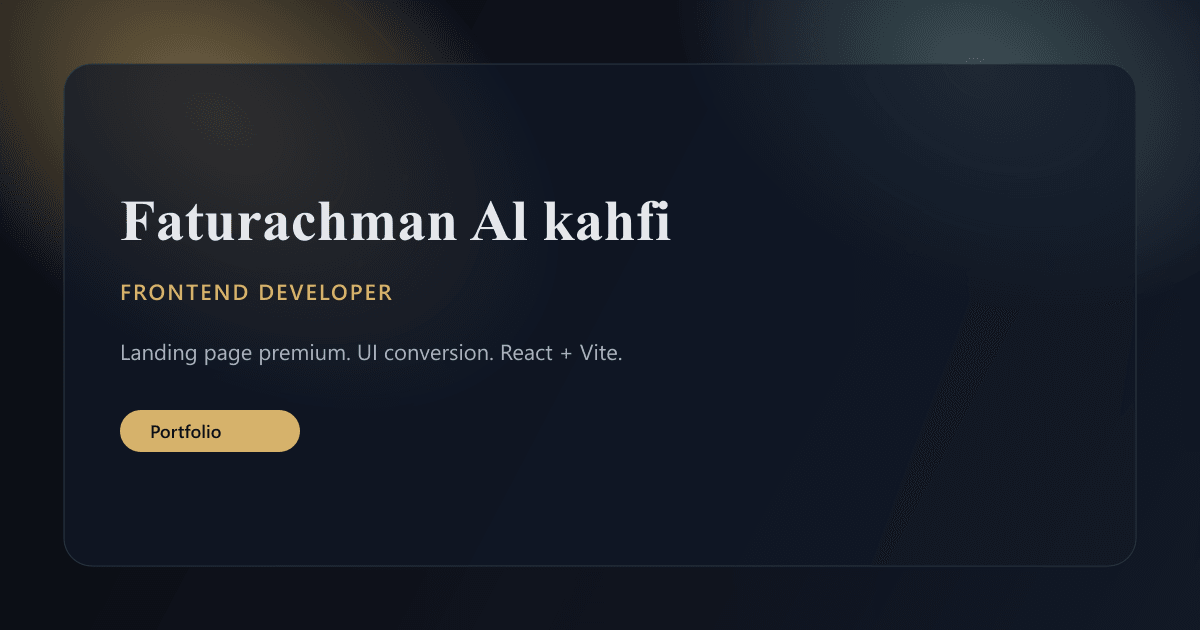
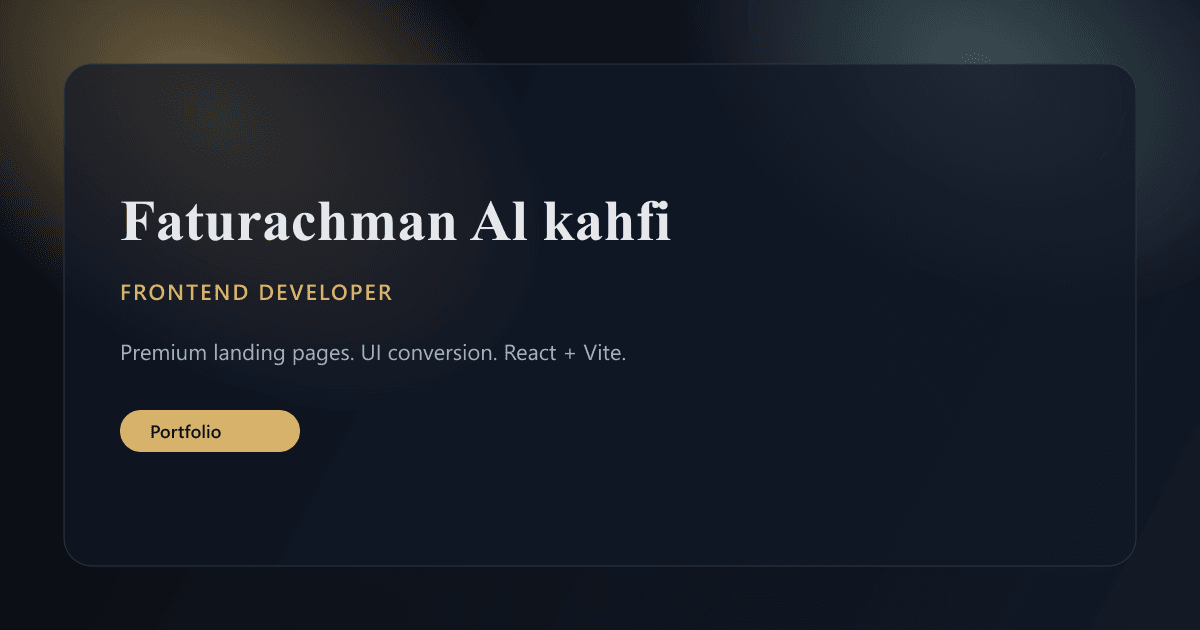
Translate site to full English

Changed region(s): [[0.0925, 0.5429, 0.5242, 0.573], [0.0, 0.2714, 0.0617, 0.3619]]

diff --git a/src/components/Projects.jsx b/src/components/Projects.jsx
@@ -6,20 +6,20 @@ const projects = [
     cover: '/projects/central-emas.png',
     title: 'Central Jual Emas (Concept Project)',
     desc:
-      'Landing page konsep untuk layanan jual emas dengan fokus edukasi dan konversi. ' +
-      'A conversion-focused landing page with pricing insights and clear CTAs.',
+      'Concept landing page for a gold selling service focused on education and conversion. ' +
+      'Conversion-focused with pricing insights and clear CTAs.',
     stack: 'HTML, CSS, JavaScript, React, Vite, REST API',
     highlights: [
-      'Kalkulator estimasi harga emas',
-      'Harga emas otomatis via API (XAUSD/world data)',
-      'CTA WhatsApp, testimoni, FAQ, lokasi'
+      'Gold price estimation calculator',
+      'Auto gold price via API (XAUSD/world data)',
+      'WhatsApp CTA, testimonials, FAQ, locations'
     ],
     caseStudy: [
-      { label: 'Problem', text: 'Pengunjung butuh estimasi cepat dan rasa aman saat menjual emas.' },
-      { label: 'Solution', text: 'Buat kalkulator harga otomatis + CTA WhatsApp yang jelas.' },
-      { label: 'Result', text: 'Alur lebih ringkas dan fokus ke konversi.' }
+      { label: 'Problem', text: 'Visitors need quick estimates and trust when selling gold.' },
+      { label: 'Solution', text: 'Auto pricing calculator plus clear WhatsApp CTA.' },
+      { label: 'Result', text: 'A shorter flow focused on conversion.' }
     ],
-    note: 'Data pelanggan/cabang/testimoni memakai mock data untuk kebutuhan desain.',
+    note: 'Customer/branch/testimonial data uses mock content for design purposes.',
     links: [
       { label: 'Demo', href: 'https://central-jual-emas.netlify.app/' },
       { label: 'Admin', href: 'https://central-jual-emas.netlify.app/admin.html' },
@@ -31,21 +31,21 @@ const projects = [
     cover: '/projects/queen-cell.png',
     title: 'For My Queen Cell (Client Project)',
     desc:
-      'Website bucin bertema romantis untuk "HTS", berisi pesan personal, mood switch, dan alur cerita hangat. ' +
+      'Romantic themed website for "HTS" with personal messages, mood switch, and warm storytelling. ' +
       'A soft, mobile-first experience with playful interactions.',
     stack: 'HTML, CSS, JavaScript, React (UMD)',
     highlights: [
-      'Hero dengan pesan personal + toggle pesan',
-      'Mood switch untuk ganti suasana',
-      'Timeline perjalanan kecil + audio player',
+      'Hero with personal message + message toggle',
+      'Mood switch to change the vibe',
+      'Story timeline + audio player',
       'Floating hearts animation'
     ],
     caseStudy: [
-      { label: 'Problem', text: 'Klien ingin hadiah digital yang personal dan terasa hangat.' },
-      { label: 'Solution', text: 'Storytelling lembut dengan mood switch + audio.' },
-      { label: 'Result', text: 'Experience terasa intimate dan berkesan di mobile.' }
+      { label: 'Problem', text: 'Client wanted a personal, warm digital gift.' },
+      { label: 'Solution', text: 'Soft storytelling with mood switch and audio.' },
+      { label: 'Result', text: 'An intimate, memorable mobile experience.' }
     ],
-    note: 'Project client: copy dan konten disesuaikan kebutuhan pemesan.',
+    note: 'Client project: copy and content customized to the request.',
     links: [
       { label: 'Demo', href: 'https://formyqueencell.netlify.app/' },
       { label: 'Repo', href: 'https://github.com/Vinzz2303/buatcelyn' }

diff --git a/index.html b/index.html
@@ -4,9 +4,9 @@
     <meta charset="utf-8" />
     <meta name="viewport" content="width=device-width, initial-scale=1.0" />
     <title>Faturachman Al kahfi | Frontend Developer</title>
-    <meta name="description" content="Portfolio Faturachman Al kahfi. Frontend developer fokus landing page premium, UI conversion, dan pengalaman web modern." />
+    <meta name="description" content="Faturachman Al kahfi portfolio. Frontend developer focused on premium landing pages, UI conversion, and modern web experiences." />
     <meta property="og:title" content="Faturachman Al kahfi | Frontend Developer" />
-    <meta property="og:description" content="Landing page premium, UI conversion, dan pengalaman web modern." />
+    <meta property="og:description" content="Premium landing pages, UI conversion, and modern web experiences." />
     <meta property="og:type" content="website" />
     <meta property="og:image" content="/og-image.png" />
     <meta property="og:image:alt" content="Faturachman Al kahfi portfolio preview" />
@@ -14,7 +14,7 @@
     <meta property="og:image:height" content="630" />
     <meta name="twitter:card" content="summary_large_image" />
     <meta name="twitter:title" content="Faturachman Al kahfi | Frontend Developer" />
-    <meta name="twitter:description" content="Landing page premium, UI conversion, dan pengalaman web modern." />
+    <meta name="twitter:description" content="Premium landing pages, UI conversion, and modern web experiences." />
     <meta name="twitter:image" content="/og-image.png" />
     <meta name="google-site-verification" content="nhtyf6PgK8NlsVFvHOK1pLbv4964RGe7lrBH8KD6dlY" />
     <meta name="theme-color" content="#0f1724" />
@@ -47,7 +47,7 @@
         "@type": "WebSite",
         "name": "Faturachman Al kahfi Portfolio",
         "url": "https://portofolio-faturachmanalkahfi.netlify.app/",
-        "inLanguage": "id"
+        "inLanguage": "en"
       }
     </script>
     <script defer data-domain="portofolio-faturachmanalkahfi.netlify.app" src="https://plausible.io/js/script.js"></script>

diff --git a/src/components/AiChat.jsx b/src/components/AiChat.jsx
@@ -10,7 +10,7 @@ export default function AiChat({ sectionId }) {
   const [loading, setLoading] = useState(false)
   const [error, setError] = useState('')
   const [messages, setMessages] = useState([
-    { role: 'assistant', content: 'Halo! Tanyakan apa saja tentang project atau skill saya.' }
+    { role: 'assistant', content: 'Hi! Ask me anything about my projects or skills.' }
   ])
 
   const sendMessage = async () => {
@@ -59,8 +59,8 @@ export default function AiChat({ sectionId }) {
     } catch (err) {
       setError(
         provider === 'local'
-          ? 'Local AI tidak aktif. Jalankan Ollama di laptop kamu untuk demo.'
-          : err?.message || 'Groq AI error. Pastikan GROQ_API_KEY sudah diset di Netlify.'
+          ? 'Local AI is not running. Start Ollama on your laptop for the demo.'
+          : err?.message || 'Groq AI error. Make sure GROQ_API_KEY is set in Netlify.'
       )
     } finally {
       setLoading(false)
@@ -71,7 +71,7 @@ export default function AiChat({ sectionId }) {
     <section id={sectionId} className="ai container reveal">
       <h2>AI Assistant</h2>
       <p className="ai-sub">
-        Pilih mode: <strong>Local (Ollama)</strong> untuk demo pribadi, atau <strong>Groq</strong> untuk publik.
+        Choose mode: <strong>Local (Ollama)</strong> for private demo, or <strong>Groq</strong> for public use.
       </p>
 
       <div className="ai-toggle">
@@ -103,7 +103,7 @@ export default function AiChat({ sectionId }) {
         <div className="ai-input">
           <input
             type="text"
-            placeholder="Tanya tentang project, skill, atau services..."
+            placeholder="Ask about projects, skills, or services..."
             value={input}
             onChange={e => setInput(e.target.value)}
             onKeyDown={e => (e.key === 'Enter' ? sendMessage() : null)}

diff --git a/src/components/Hero.jsx b/src/components/Hero.jsx
@@ -8,7 +8,7 @@ export default function Hero({ sectionId }){
           <div className="eyebrow">Frontend Developer</div>
           <h1>Faturachman Al kahfi</h1>
           <p className="lead">
-            Frontend dev yang fokus bikin landing page bisnis yang terlihat premium, jelas arahnya, dan siap konversi.
+            Frontend developer focused on premium business landing pages with clear direction and conversion-ready flows.
             I build fast, responsive UI with React and modern web tech.
           </p>
           <div className="hero-badges">
@@ -18,8 +18,8 @@ export default function Hero({ sectionId }){
             <span className="badge">Clean UX</span>
           </div>
           <div className="hero-cta">
-            <a className="btn" href="#projects">Lihat projek saya</a>
-            <a className="btn secondary" href="#contact">Konsultasi cepat</a>
+            <a className="btn" href="#projects">View my projects</a>
+            <a className="btn secondary" href="#contact">Quick consultation</a>
           </div>
         </div>
         <div className="hero-aside">
@@ -32,9 +32,9 @@ export default function Hero({ sectionId }){
           <div className="hero-panel">
             <h3>Signature</h3>
             <ul className="hero-list">
-              <li>Layout rapi, elegan, dan konsisten.</li>
-              <li>CTA jelas dan fokus pada konversi.</li>
-              <li>Loading cepat dengan UI ringan.</li>
+              <li>Clean, elegant, consistent layouts.</li>
+              <li>Clear CTAs that drive conversion.</li>
+              <li>Fast loading with lightweight UI.</li>
             </ul>
           </div>
           <div className="hero-panel">

diff --git a/src/components/About.jsx b/src/components/About.jsx
@@ -5,24 +5,24 @@ export default function About({ sectionId }){
     <section id={sectionId} className="about container reveal">
       <h2>About Me</h2>
       <p className="lead">
-        Saya fokus ngulik landing page bisnis dan dashboard sederhana biar user langsung paham.
+        I focus on business landing pages and lightweight dashboards so users understand the value fast.
         I turn ideas into clean UI with React, Vite, HTML, CSS, and JavaScript.
       </p>
       <div className="value-grid">
         <div className="value-card">
           <div className="eyebrow">Strategy</div>
-          <h3>Struktur yang terarah</h3>
-          <p>Bangun alur konten yang jelas agar visitor cepat mengerti nilai produk.</p>
+          <h3>Clear structure</h3>
+          <p>Shape content flow so visitors instantly grasp your value.</p>
         </div>
         <div className="value-card">
           <div className="eyebrow">Design</div>
-          <h3>Visual premium</h3>
-          <p>Konsisten secara tipografi, warna, dan jarak untuk nuansa luxury.</p>
+          <h3>Premium visuals</h3>
+          <p>Consistent typography, color, and spacing for a luxury feel.</p>
         </div>
         <div className="value-card">
           <div className="eyebrow">Build</div>
-          <h3>Eksekusi cepat</h3>
-          <p>Komponen ringan, responsif, dan siap diintegrasi dengan data.</p>
+          <h3>Fast execution</h3>
+          <p>Lightweight components, responsive layouts, and data-ready builds.</p>
         </div>
       </div>
       <div className="skills">

diff --git a/src/components/Contact.jsx b/src/components/Contact.jsx
@@ -5,23 +5,23 @@ export default function Contact({ sectionId }){
     <section id={sectionId} className="contact container reveal">
       <h2>Contact</h2>
       <p>
-        Butuh landing page atau UI yang rapi? Kirim email aja.
+        Need a clean landing page or UI? Send me an email.
         Reach out anytime: <a href="mailto:faturachmanalkahfi7@gmail.com">faturachmanalkahfi7@gmail.com</a>
       </p>
       <div className="faq">
         <h3>FAQ</h3>
         <div className="faq-grid">
           <div className="faq-item">
-            <h4>Berapa lama pengerjaan?</h4>
-            <p>Biasanya 3–10 hari tergantung scope dan revisi.</p>
+            <h4>How long does it take?</h4>
+            <p>Usually 3-10 days depending on scope and revisions.</p>
           </div>
           <div className="faq-item">
-            <h4>Bisa desain dari nol?</h4>
-            <p>Bisa. Kamu cukup kasih brief dan referensi, sisanya saya rapikan.</p>
+            <h4>Can you design from scratch?</h4>
+            <p>Yes. Share your brief and references, I will handle the rest.</p>
           </div>
           <div className="faq-item">
-            <h4>Bisa maintenance setelah launch?</h4>
-            <p>Bisa. Termasuk update konten kecil dan perbaikan minor.</p>
+            <h4>Do you offer maintenance after launch?</h4>
+            <p>Yes. It includes small content updates and minor fixes.</p>
           </div>
         </div>
       </div>
